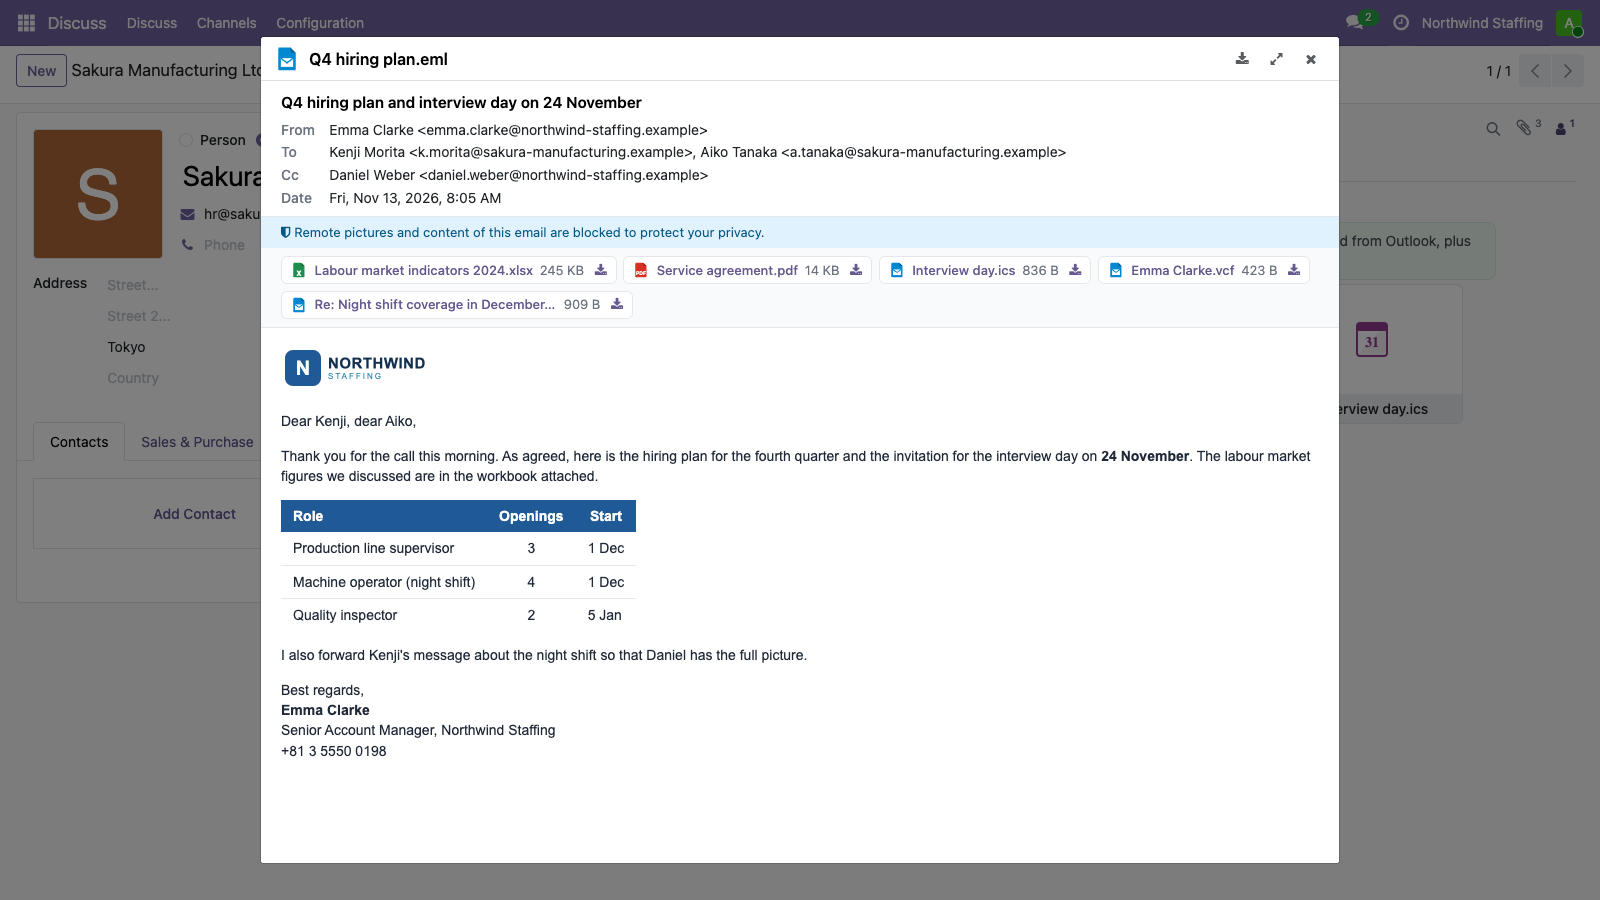
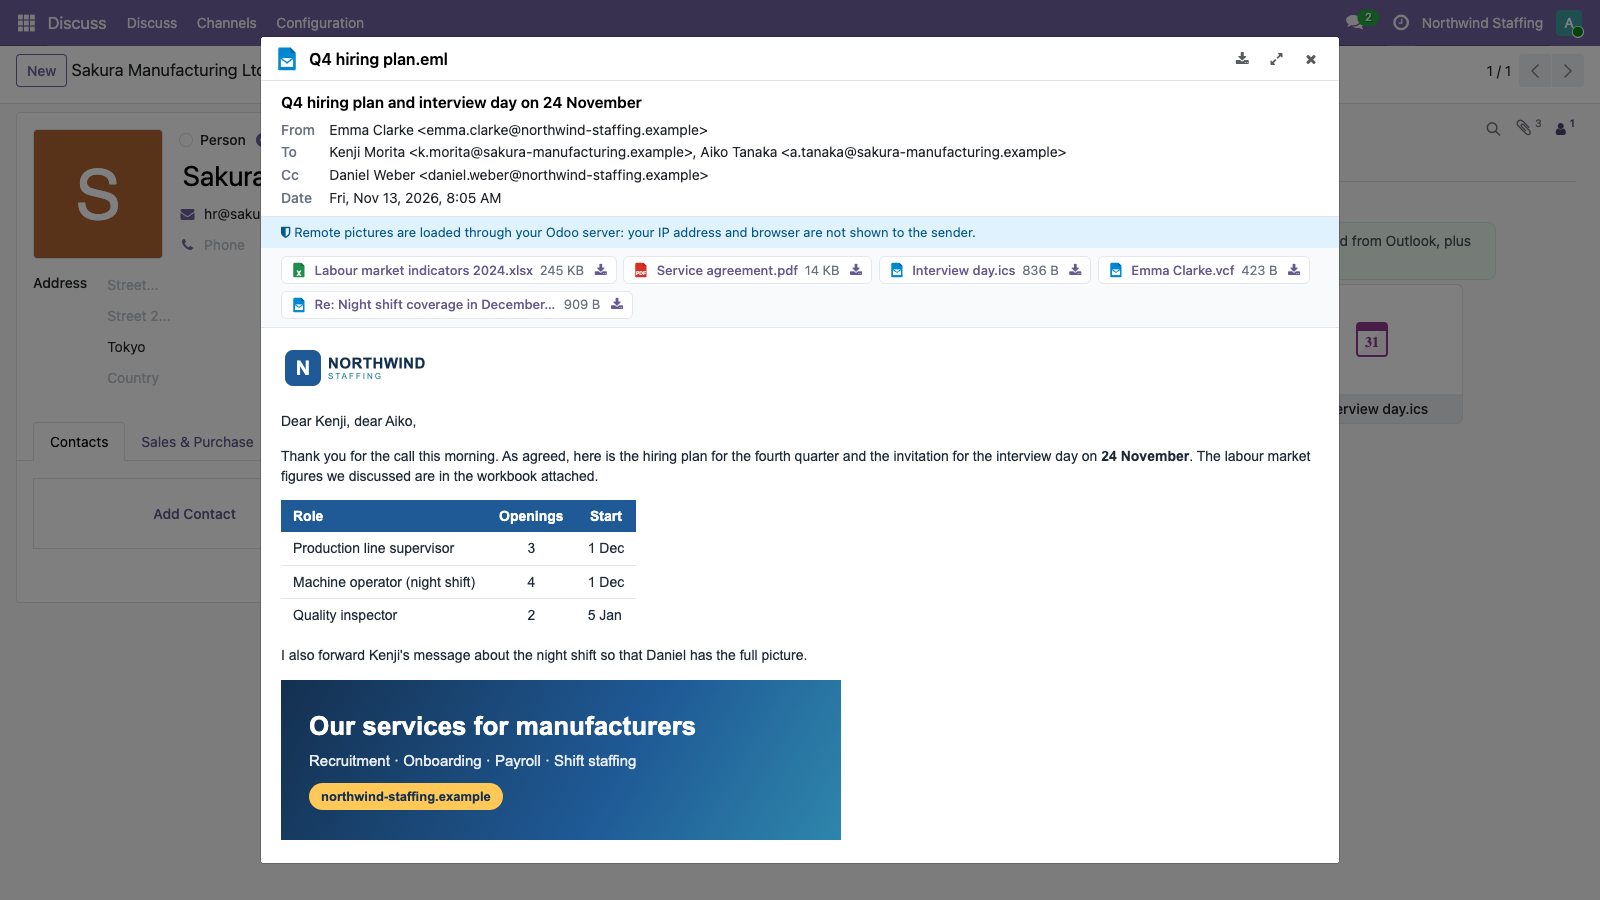
dwo_attpreview_core: settings test accepts engine fields, mail catalog synced (#79)
Claude-Session: https://claude.ai/code/session_01MswwjxPVLtujEUT8G1wXVE

Changed region(s): [[0.1562, 0.7467, 0.5312, 0.9333], [0.25, 0.2489, 0.5938, 0.28], [0.9688, 0.0, 1.0, 0.0311]]

diff --git a/dwo_attpreview_core/static/catalog/dwo_attpreview_mail/index.html b/dwo_attpreview_core/static/catalog/dwo_attpreview_mail/index.html
@@ -36,7 +36,7 @@
             <div class="card h-100" style="border-top: 4px solid #2E86AB;">
                 <div class="card-body">
                     <h4 class="font-weight-bold mt-0 mb-3" style="font-size: 18px; color: #14304F;">Safe to open</h4>
-                    <p class="mb-0" style="font-size: 14px;">Scripts and remote content (tracking pixels, remote pictures) are removed, and the email is shown in an isolated frame. Odoo access rights apply at every level.</p>
+                    <p class="mb-0" style="font-size: 14px;">Scripts are removed and remote pictures are downloaded by your Odoo server, so the sender never sees the IP address or browser of the user. The email is shown in an isolated frame, and Odoo access rights apply at every level.</p>
                 </div>
             </div>
         </div>
@@ -97,7 +97,7 @@
     </div></div>
     <div class="card mb-3"><div class="card-body">
         <h4 class="font-weight-bold mt-0 mb-2" style="font-size: 16px; color: #14304F;">Is anything sent outside my Odoo server?</h4>
-        <p class="mb-0" style="font-size: 14px;">No. The email is read on your server and shown in your browser; remote pictures and tracking pixels are blocked.</p>
+        <p class="mb-0" style="font-size: 14px;">No. The email is read on your server and shown in your browser. Pictures linked from the internet are downloaded by your server, so your IP address and browser stay private.</p>
     </div></div>
     <div class="card mb-3"><div class="card-body">
         <h4 class="font-weight-bold mt-0 mb-2" style="font-size: 16px; color: #14304F;">Do I need Outlook or extra packages?</h4>
@@ -107,7 +107,7 @@
     <div class="text-center rounded p-4 mt-5 mb-3" style="border: 2px solid #1F5A96;">
         <p class="font-weight-bold mt-0 mb-2" style="font-size: 24px; color: #1F5A96;">Read saved emails in Odoo, safely.</p>
         <p class="mb-2" style="font-size: 15px;">Emails, their attachments and the emails inside them, without downloading anything. Works with Odoo Community and Enterprise.</p>
-        <p class="text-muted mb-0" style="font-size: 13px;">Developed by Duotek</p>
+        <p class="text-muted mb-0" style="font-size: 13px;">Developed by DuoTEK</p>
         <p class="text-muted mt-1 mb-0" style="font-size: 13px;">Questions or support: <a href="mailto:hello@duotek.io.vn">hello@duotek.io.vn</a></p>
     </div>
 

diff --git a/dwo_attpreview_core/tests/test_settings.py b/dwo_attpreview_core/tests/test_settings.py
@@ -27,7 +27,10 @@ class TestAttPreviewSettings(TransactionCase):
         tree = etree.fromstring(view["arch"])
         app = tree.xpath("//app[@name='dwo_attpreview_core']")[0]
         names = {f.get("name") for f in app.iter("field")}
-        self.assertEqual(names, SETTINGS_FIELDS)
+        # the fields of the Core, plus the own settings an engine module may add to the app (dwo_attpreview_<engine>_...)
+        self.assertEqual(names & SETTINGS_FIELDS, SETTINGS_FIELDS)
+        extra = names - SETTINGS_FIELDS
+        self.assertFalse([n for n in extra if not n.startswith(("dwo_attpreview_mail_", "dwo_attpreview_office_"))], extra)
         self.assertEqual(app.xpath(".//button"), [], "no button (Clear cache, Manage engines) any more")
         widgets = {f.get("name"): f.get("widget") for f in app.iter("field")}
         for name in ("module_dwo_attpreview_office", "module_dwo_attpreview_mail"):
